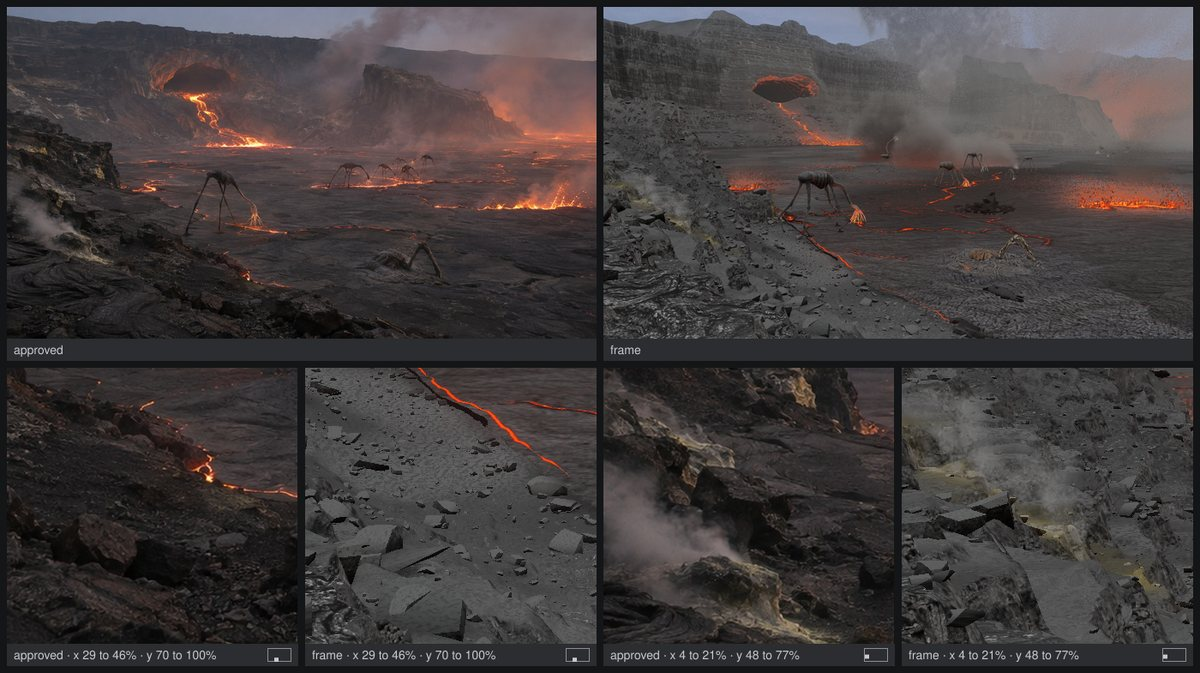
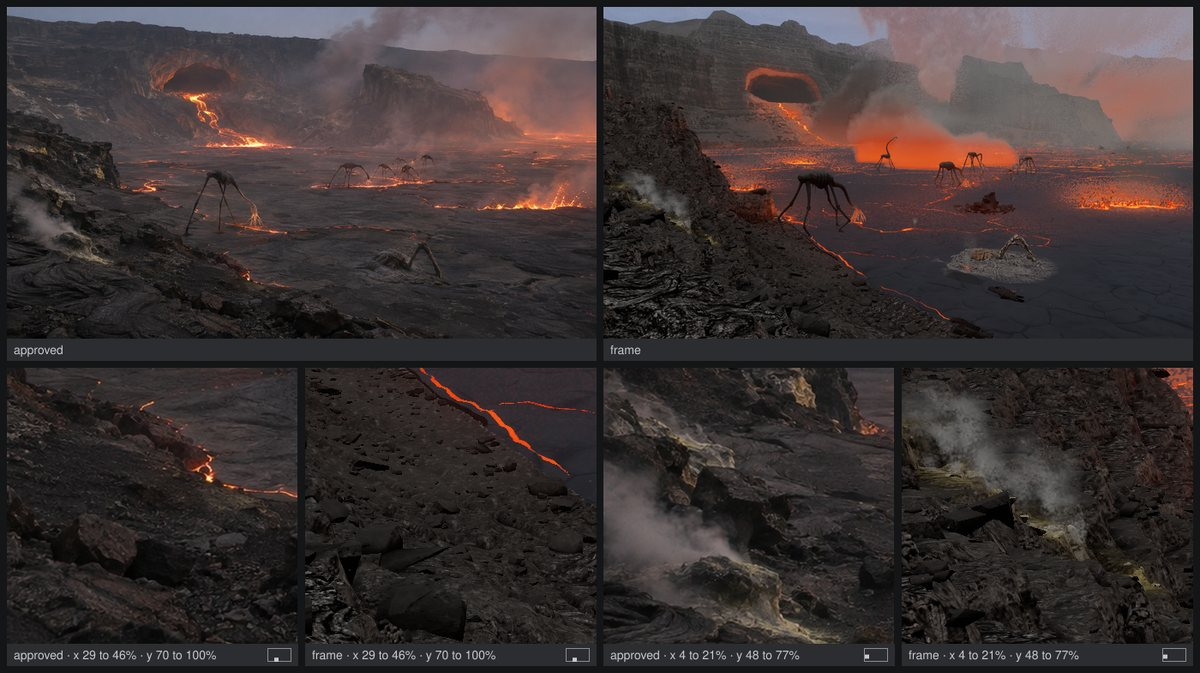
Status 36: eight hand-backs merged, the new lake on main, the glow map frozen

diff --git a/kit/PROGRESS.md b/kit/PROGRESS.md
@@ -24,27 +24,26 @@ The Builder's memory. Read it at the start of every task and after every compact
 
 The pictures of the newest status, with their captions and the time. Files are in `out/stills/status/`.
 
-Status 35, 2026-11-25 07:57 UTC:
+Status 36, 2026-11-25 08:20 UTC:
 
-- `01-mouth-test-4.jpg`: The mouth and the fall: approved picture left, main right after my change at 07:50 UTC. The mouth is now as wide and as low as the picture's (it was a third narrower). The pale wall and the thin stream are what the new owners of the fall, the land and the light are on.
-- `02-heart-0.jpg`: The wide view on main at 07:53 UTC with the wider mouth. Still an overcast day where the picture is a dusk: the correction with measured levels is with six fresh owners.
-- `03-sunk2-a-heart-2.jpg`: First hand-back of a second owner (the one that sank, 07:55 UTC, not merged yet): the tone is now dark as in the picture. I asked for thin legs and that was my mistake: the picture has thick arched trunks with flaking bark. Corrected at 07:58 UTC.
-- `04-heart-2.jpg`: heart-2: approved beside frame, hd draft, with 2 crop pairs
+- `01-heart-3.jpg`: The feeding picture on main at 08:17 UTC with eight hand-backs merged. Gain: the animals are dark and matt as in the picture, no clay pattern, pale roots. Defect, being fixed now: the air turns the new lake's glow into one flat orange wall.
+- `02-heart-0.jpg`: The wide view on main at 08:16 UTC. Gains: the bench is as dark as the picture's (MEASURED 37 34 32 against 38 36 35), the lake is dark with a net of thin seams. Defects: the orange block over the foot of the fall (the same cause), pink smoke, the sunk one still pale here (its dark version went in two minutes later).
+- `03-heart-2.jpg`: The one that sank, main at 08:16 UTC: the near animal is now a dark silhouette. The new crust is dark but too smooth: its owner has that as the first job of its next version.
 
+Status 35, 2026-11-25 07:57 UTC, showed: The mouth and the fall: approved picture left, main right after my change at 07:50 UTC.
 Status 34, 2026-11-25 07:36 UTC, showed: The wide view, approved picture left, merged main right (07:33 UTC, hd draft).
 Status 33, 2026-11-25 07:10 UTC, showed: The one that sank, now through a lens: sharp on the carcass, soft before and behind it (draft tier); Feeding at a seam through the long...
-Status 32, 2026-11-25 06:51 UTC, showed: The wide view after the merge, beside its picture: the place is right, the colour is too red-brown and the crust has no sheen yet; Feeding...
 
 ## Clock
 
 Copied from the last tick of `npm run clock`.
 
 ```
-2026-11-25T07:57:08Z
-phase 3: 4.80 h used of 13.00 h
-build: 11.45 h used of 72.00 h
+2026-11-25T08:20:53Z
+phase 3: 5.19 h used of 13.00 h
+build: 11.85 h used of 72.00 h
 extra rounds: yes
-minutes since the last status: 21
+minutes since the last status: 24
 ```
 
 ## Phases
@@ -584,6 +583,9 @@ One line each: the date, the decision and the reason.
 - 2026-11-25. 2026-11-25 07:36 UTC. Levels after the merge of light version 2 with the fourth versions, MEASURED with the cast tool on hd draft frames against the pictures (rock and crust pixels, 8 bit): heart-0 79 73 72 against 71 61 61, its bottom band (the bench) 61 to 70 against 38 to 47; heart-2 bottom band 59 to 69 against 37 to 52; heart-4 80 71 69 against 76 62 60; red over blue 1.10 against 1.16 to 1.27. The land's paler rock and the light's stronger sky were each made against the darker frame of 06:53 and landed together. Correction: the rock, bench, hide and carcass go darker by their owners under the new light, measured not judged by eye; the light keeps its sky and gets back some warm fill near the fire.
 - 2026-11-25. 2026-11-25 07:50 UTC. The vessel mouth is wider and lower: `MOUTH` in `src/places/heart/layout.ts` goes from floor 96, width 118, height 60 to floor 80, width 172, height 68. MEASURED on the fall's picture: its mouth spans 20 to 65 per cent of the frame's width and 10 to 42 per cent of its height; main's spanned 27 to 57 and 8 to 33, and round 3's R1 called it severe ("The opening is smaller and narrower") at heart-4 and asked for a wider cave at the wide view too. After the change it spans 20 to 63 and 10 to 41 at heart-4, and 25.5 to 36.5 per cent at the wide view against the picture's 25.5 to 38.5. The land's cut and the fall's face patch and bed now follow `MOUTH.width` (a check before the change: 0 of 2,073,600 pixels differ at heart-4). The fall's second owner may tune that one line.
 - 2026-11-25. Directions to owners are written only after the approved picture has been looked at beside main at 1500 px. Reason: four directions written from memory were wrong and cost one owner a hand-back.
+- 2026-11-25. The new lake (crust and lava, version 2) is on main although its owners call the line picture unfinished. Reason: at the wide view it beats the old lake clearly (dark crust with a net of seams against a pale sheet), the old lake has no owner, and the light, the air and the animals must be tuned against the lake that will be in the film.
+- 2026-11-25. The lake's glow map is frozen at the levels of lava d9a4bfd (0.07 to 0.20 of radiance at the line's channel, 0.22 at feeding seams, 0.4 at the fall's pool, the far web as it is). Receivers (air, light, animals) are tuned against it. Reason: the air's banks, tuned to the old weak map, turned the new one into a flat orange block at three keys; a source that keeps moving cannot be tuned against.
+- 2026-11-25. The sunk walker's hand-back A went in with its thin legs. Reason: on the new dark crust the old pale body and apron read as a pale island at the wide view, which is worse than thin legs; thick arched legs are asked for as A2 or B.
 
 ## Notes from Brandon
 
@@ -850,3 +852,4 @@ none
 - 2026-11-25 07:38 UTC. 2026-11-25 07:37 UTC. Status 34 shown in the thread: the merged main at the wide view, the line, the feeding and the fall beside the pictures; the pale overcast read and its measured cause; the staging decision; crust and lava version 1 held back; ElevenLabs 1 character of 131,000 at 07:31 UTC.
 - 2026-11-25 07:54 UTC. 2026-11-25 07:54 UTC. Six second owners started between 07:44 and 07:50 UTC (land, fall, light, walkers, sunk, air), each on its own machine with the shared sheet, a sheet of what is different now (the frozen light, the measured levels, the lens, staging by shot), its folder's brief, round 3's list for its folder, its predecessor's own worst list and my direction in order. The vessel mouth change is on main as `6794613`; determinism passes on it (07:52 UTC). Direction went to the crust and lava owners at 07:39 UTC.
 - 2026-11-25 07:57 UTC. Status 35 shown at 07:57 UTC (mouth pair, wide view on main, sunk hand-back A of the second owner). ElevenLabs: 1 of 131,000 characters. Four of my directions corrected against the approved pictures at full size: walkers (legs go down and out from the shoulders, pale root tendrils lit from below, ragged pads), the sunk one (thick arched trunks), the line channel (two fifths bright melt, swirled skin, lit undersides of the banks, a band of orange dashes at the horizon), the wide view's smoke (a broad translucent plume from the far shore, not a dark column).
+- 2026-11-25 08:22 UTC. Status 36 shown at 08:21 UTC. Eight hand-backs merged into main as 6cb954c and pushed: land A 60610bb, fall A 8db1f0b, air A and A2 0d1dba8, light A 6123cd7, walkers A 633e5c4, sunk A 124d09f, crust version 2 3e4148f, lava version 2 d9a4bfd. Types and build pass, determinism passes on 6cb954c. ElevenLabs: 1 of 131,000 characters.

diff --git a/out/stills/status/STATUS.md b/out/stills/status/STATUS.md
@@ -1,8 +1,7 @@
-# Status 35
+# Status 36
 
-2026-11-25 07:57 UTC. Phase 3, the look lock: the Heart.
+2026-11-25 08:20 UTC. Phase 3, the look lock: the Heart.
 
-- `01-mouth-test-4.jpg`: The mouth and the fall: approved picture left, main right after my change at 07:50 UTC. The mouth is now as wide and as low as the picture's (it was a third narrower). The pale wall and the thin stream are what the new owners of the fall, the land and the light are on.
-- `02-heart-0.jpg`: The wide view on main at 07:53 UTC with the wider mouth. Still an overcast day where the picture is a dusk: the correction with measured levels is with six fresh owners.
-- `03-sunk2-a-heart-2.jpg`: First hand-back of a second owner (the one that sank, 07:55 UTC, not merged yet): the tone is now dark as in the picture. I asked for thin legs and that was my mistake: the picture has thick arched trunks with flaking bark. Corrected at 07:58 UTC.
-- `04-heart-2.jpg`: heart-2: approved beside frame, hd draft, with 2 crop pairs
+- `01-heart-3.jpg`: The feeding picture on main at 08:17 UTC with eight hand-backs merged. Gain: the animals are dark and matt as in the picture, no clay pattern, pale roots. Defect, being fixed now: the air turns the new lake's glow into one flat orange wall.
+- `02-heart-0.jpg`: The wide view on main at 08:16 UTC. Gains: the bench is as dark as the picture's (MEASURED 37 34 32 against 38 36 35), the lake is dark with a net of thin seams. Defects: the orange block over the foot of the fall (the same cause), pink smoke, the sunk one still pale here (its dark version went in two minutes later).
+- `03-heart-2.jpg`: The one that sank, main at 08:16 UTC: the near animal is now a dark silhouette. The new crust is dark but too smooth: its owner has that as the first job of its next version.
